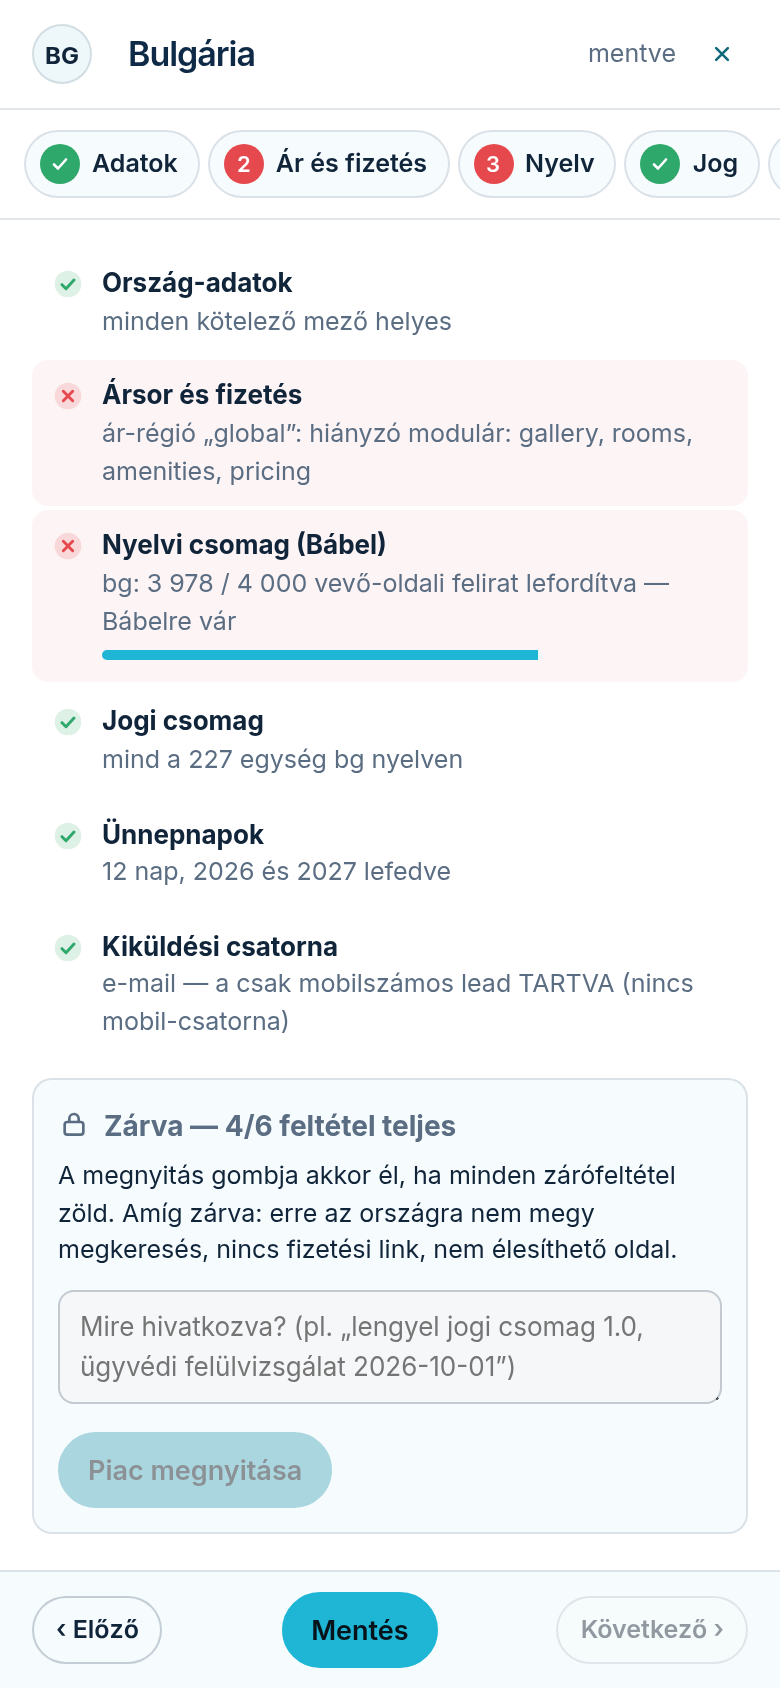
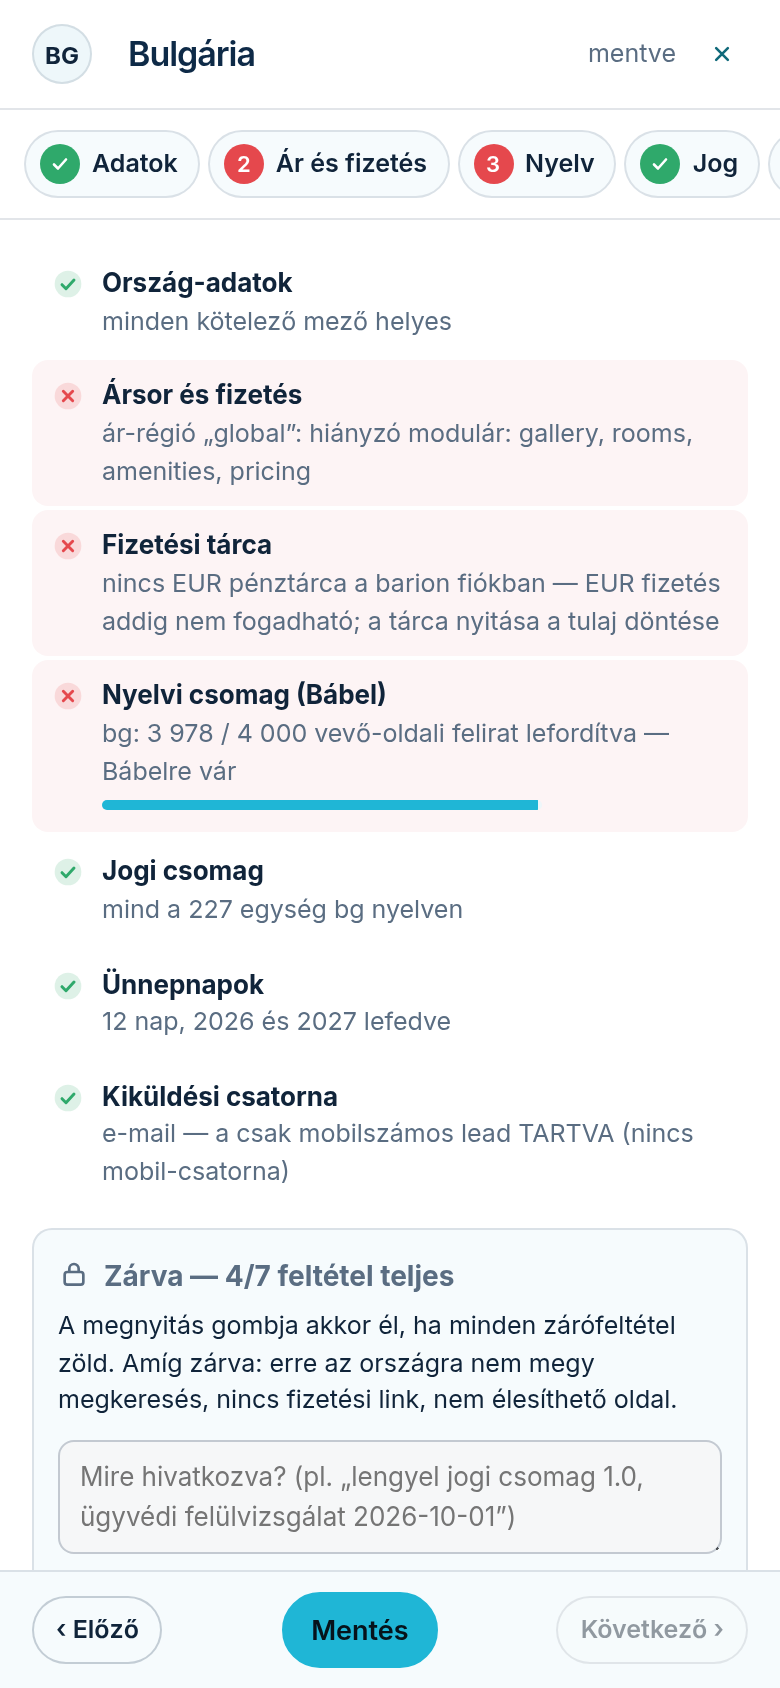
fix(kb): tudasbazis-or FLAG a deploy-tartományra (e1465241..5f00cb71) — Országok-lap piacnyitás, 6 ország adóazonosító-ellenőrzés + HR kategorizálási szám, Fizetési tárca zárófeltétel (+open-step.png), IFA pénznem-egysége, nem magyar adómodell, Jóváhagyás Ország-szűrő
Claude-Session: https://claude.ai/code/session_01H78ew8rpAbHYLTQuUCwJth

diff --git a/kb/entries/admin-legal/entry.hu.md b/kb/entries/admin-legal/entry.hu.md
@@ -4,7 +4,7 @@ title: Jogi adatok — impresszum és adatkezelési tájékoztató a honlapján
 audience: tenant
 category: account
 anchors: admin.legal
-updated: 2026-11-22
+updated: 2026-11-26
 ---
 
 A honlapjának két jogi oldala van: az **Impresszum** és az **Adatkezelési tájékoztató**.
@@ -92,14 +92,24 @@ szállás országa szerint mutatja a mezőket:
 - Az **adószám** mező az adott ország adóazonosítójának nevét viseli (például Olaszországban a
   Partita IVA, Portugáliában a NIF, Horvátországban az OIB). Spanyolországban, Portugáliában és
   Horvátországban magánszemélyként is kötelező kitölteni.
-- Horvátországban a panel az **OIB** utolsó, ellenőrző számjegyét is megnézi. Ha elgépelte, a mentés
-  után a mező alatt figyelmeztetés jelenik meg: a többi adatot elmentettük, az OIB-t nem. A mezőben
-  ott marad, amit beírt: javítsa a 11 jegyet, és koppintson újra a **„Jogi adatok mentése”** gombra.
-  Addig a honlapon a korábban mentett érték látszik.
+- Hat országban — Olaszország, Spanyolország, Portugália, Franciaország, Bulgária és Horvátország —
+  a panel az adóazonosító alakját és az ellenőrző jelét (az utolsó, a többiből kiszámolt jegyet vagy
+  betűt) is megnézi. Ha elgépelte, a mentés után a mező alatt figyelmeztetés jelenik meg:
+  - rossz hosszúságú vagy formájú számnál: *„Ez nem tűnik adóazonosítónak — a helyes alak például: …”*
+    (a példa az adott ország valódi formáját mutatja, Olaszországban például 11 számjegyet);
+  - ha a hossz jó, de a szám nem stimmel: *„Az adóazonosító ellenőrző jele nem stimmel — valószínűleg
+    elgépelés.”*;
+  - Horvátországban a saját szövegével: *„Az OIB 11 számjegyű.”*, illetve *„Az OIB ellenőrző számjegye
+    nem stimmel — valószínűleg elgépelés.”*
+
+  Ilyenkor a többi adatot elmentettük, az adóazonosítót nem. A mezőben ott marad, amit beírt: nézze
+  meg a hivatalos papírján (adóhatósági igazolás, cégkivonat), javítsa, és koppintson újra a
+  **„Jogi adatok mentése”** gombra. Addig a honlapon a korábban mentett érték látszik.
 - A **„Szálláshely-azonosító (NTAK)”** mező nem jelenik meg, mert az NTAK magyar nyilvántartás.
 - **Külön mezők** jelennek meg az ország saját nyilvántartási számaihoz. Olaszországban ilyen a
   nemzeti szálláshely-azonosító (CIN), Portugáliában a helyi szálláshely nyilvántartási száma és
-  az online panaszkönyv címe. A panaszkönyv címét előre kitöltöttük, a többit Önnek kell
+  az online panaszkönyv címe, Horvátországban a „Kategorizálási határozat száma” mező (a szállás
+  besorolásáról kapott hatósági határozat száma — ez kötelező, és a honlapon is megjelenik). A panaszkönyv címét előre kitöltöttük, a többit Önnek kell
   megadnia.
 
 Ezek ugyanúgy működnek, mint a többi mező: ha egy kötelező mező üres, a panel tetején

diff --git a/kb/entries/console-approval/entry.hu.md b/kb/entries/console-approval/entry.hu.md
@@ -4,7 +4,7 @@ title: Jóváhagyás — mehet-e ki a megkeresés, és hol
 audience: operator
 category: lead-path
 anchors: console.approval
-updated: 2026-11-25
+updated: 2026-11-26
 ---
 
 A **„Jóváhagyás”** lapon döntöd el, hogy egy megkeresés kimehet-e a leadnek. A listán csak az a lead
@@ -17,12 +17,19 @@ szám sem számolja. Megkeresés csak a te jóváhagyásod után megy ki.
 ## „Jóváhagyásra vár”
 
 Bal oldalt a lista. Felül keresőmező (név vagy település), alatta szűrés honlap szerint
-(**„Nincs honlap”** / **„Elavult honlap”**); a **„Szűrők törlése”** mindent visszaállít. Telefonon a
+(**„Nincs honlap”** / **„Elavult honlap”**); a **„Szűrők törlése”** mindent visszaállít. Ha a
+listában több ország leadje vár, a honlap-szűrő fölött egy **„Ország”** szűrősor is megjelenik
+(országonként egy gomb), a lista tetején pedig országonként látod, hány lead vár — minden
+országnak saját küldési ablaka és napi kvótája van. A leadek sorában ilyenkor az ország kódja
+is ott áll a település előtt. Telefonon a
 lista felül áll, alatta a kiválasztott lead.
 
 - **A kiválasztott lead fejlécében** a neve és a települése mellett a **„Keresés”** gomb új ablakban
   megnyitja a Google-t a szállás nevével, a településsel és az e-mail-címmel; alatta az
-  elérhetőségei jelvényként, benne az adattal. A megkeresés e-mailben megy.
+  elérhetőségei jelvényként, benne az adattal. A megkeresés e-mailben megy. Külföldi
+  leadnél akkor sem megy üzenet a mobilszámra, ha van: a lead országában nincs engedélyezett
+  mobil-csatorna (a magyar SIM-es modem külföldi számra nem küld), ezért csak e-mail megy, a mobil
+  megkeresés tartva marad. Ezzel nincs teendőd — a „Mehet” az e-mailt engedi ki.
 - **A megkeresés szövege** (alapból összecsukva, a címére kattintva nyílik le): a levél tárgya és
   bekezdései, szerkeszthetően. Ha átírsz valamit, nyomd meg a **„Mentés”** gombot, mielőtt a
   **„Mehet”**-re koppintasz — a „Mehet” a szöveget nem menti el. Üresen hagyott mező = a gépi szöveg megy; ha már elmentettél saját szöveget, a **„Vissza a gépi szövegre”** gomb visszaállítja. Ha a mentés nem sikerül, piros

diff --git a/kb/entries/admin-booking-setup/entry.hu.md b/kb/entries/admin-booking-setup/entry.hu.md
@@ -4,7 +4,7 @@ title: Foglalás beállítása — kérdésről kérdésre, a Segítővel
 audience: tenant
 category: bookings
 anchors: admin.booking.setup
-updated: 2026-10-16
+updated: 2026-11-26
 ---
 
 Ezen az egy oldalon mindent beállít, ami ahhoz kell, hogy a vendégek foglalhassanak: a szobákat,
@@ -75,12 +75,15 @@ tűnik el vele (naptár, árak, korábbi foglalások).
 
 ## Amit a vendég lát
 
-- **Kér idegenforgalmi adót?** — három válasz van. **„Igen”**: beírja az összeget (Ft / fő / éj), és a
+- **Kér idegenforgalmi adót?** — három válasz van. **„Igen”**: beírja az összeget (a szállás pénznemében,
+  például „Ft / fő / éj” vagy „€ / fő / éj”), és a
   vendég külön soron, kiszámolva látja. **„Nincs idegenforgalmi adó”**: a honlapja nem is említi.
   **„Még nem tudom”**: a vendég csak annyit lát, hogy a helyszínen adó fizetendő, összeget nem —
   számot nem találunk ki Ön helyett. Az adót a vendég a helyszínen fizeti, a végösszegbe nem számoljuk.
   A 18 év alatti vendég mentes az adó alól: a foglalásnál a vendég mindig megadja, hányan gyermekek
   („Ebből gyermek”), azokra nem számoljuk, és ezt egy mondat ki is mondja a vendégnek.
+  **Ha a szállása nem Magyarországon van**, és az országára nincs olyan idegenforgalmi-adó szabály,
+  amit a honlap kiírhat, ez a kérdés **nem jelenik meg** az oldalon — nincs vele teendője.
 - **Mi van benne az árban?** — egy rövid sor a végösszeg alatt (például: takarítás, ágynemű, reggeli).
   Nem kötelező; üresen hagyva ez a sor elmarad.
 

diff --git a/kb/entries/console-countries/entry.hu.md b/kb/entries/console-countries/entry.hu.md
@@ -4,7 +4,7 @@ title: Országok — egy ország adatai, és mikor nyitható meg
 audience: operator
 category: system
 anchors: console.countries
-updated: 2026-11-19
+updated: 2026-11-26
 ---
 
 A **„Országok”** lapon (Rendszer › Országok) kezeled az országokat: itt veszel fel egy új
@@ -58,6 +58,12 @@ A panel tetején hat lépés van: **„Adatok”** → **„Ár és fizetés”*
   fogadnia kell az ország pénznemét. Hiányos ársornál a vendég foglalási kérése is elhasalna,
   ezért ez zárófeltétel. Az árakat az **Árazás** lapon töltöd ki; a régiót és a pénznemet az
   „Adatok” lépésben választod. Nem EU-s ország ebben a körben nem nyitható (a számlázása nincs megoldva).
+- **Fizetési tárca** (ugyanebben a lépésben, külön sorban). Hiába fogadja a szolgáltató a pénznemet,
+  ha a mi fiókunkban nincs hozzá pénztárca, a vevő pénze nem tud megérkezni. Ez is zárófeltétel.
+  Ha hiányzik, a sor piros, és ezt írja: *„nincs EUR pénztárca a barion fiókban — EUR fizetés addig
+  nem fogadható; a tárca nyitása a tulaj döntése”* (az ország pénznemével és szolgáltatójával).
+  Ezt itt nem tudod megoldani: szólj a tulajnak, ő nyitja meg a tárcát a szolgáltatónál. Ha megvan,
+  a sor zöld: *„EUR pénztárca megvan (barion)”*.
 - **Nyelv.** Megkeresés, mock és vendégoldal csak az ország alapnyelvén megy. A lap a
   vevő-oldali feliratokat számolja (a konzol saját feliratai nem számítanak, azok magyarul
   maradnak). Ha egy is hiányzik, a megkeresés TARTVA („Bábelre vár”). A fordítást Bábel végzi

diff --git a/kb/entries/console-settings/entry.hu.md b/kb/entries/console-settings/entry.hu.md
@@ -4,7 +4,7 @@ title: Beállítások — operátor-fiók, riasztások és jelszócsere
 audience: operator
 category: system
 anchors: console.settings
-updated: 2026-10-13
+updated: 2026-11-26
 ---
 
 A **„Beállítások”** képernyőn látod a saját operátor-fiókod adatait, itt állítod be az
@@ -138,9 +138,10 @@ fizetés-sor, és a felület nem ad ki két linket ugyanarra. Ha a sor ott ragad
 rendezéshez **fejlesztői beavatkozás kell** — jelezd.
 
 **`unknown` — rendszerint lezárt piac.** A vevő országára nincs jóváhagyott jogi csomag, a
-gomb pedig látszik és hatástalan. A teendő nem a lead lapján van: a **Beállítások** lap
-**„Piacok”** panelján kell megnyitni az adott országot (lásd a Piacok súgót) — utána a
-gomb már valódi linket ad. Ha az országot üzletileg nem akarod megnyitni, a rendelés nem
+gomb pedig látszik és hatástalan. A teendő nem a lead lapján van: az **„Országok”** lapon
+(Rendszer › Országok) kell megnyitni az adott országot — koppints az ország sorára, majd a
+**„Megnyitás”** lépésben a **„Piac megnyitása”** gombra (részletesen az Országok súgójában, „A piac
+megnyitása” résznél). Utána a gomb már valódi linket ad. Ha az országot üzletileg nem akarod megnyitni, a rendelés nem
 teljesíthető: keresd meg a vevőt és mondd meg neki.
 
 **Ha a gomb nem látszik és a rendelés már ki van fizetve** — ilyenkor nincs is dolgod.

diff --git a/kb/entries/admin-modules-booking/entry.hu.md b/kb/entries/admin-modules-booking/entry.hu.md
@@ -4,7 +4,7 @@ title: Foglalás-beállítások — naptár, szobák, értesítési címek
 audience: tenant
 category: bookings
 anchors: admin.modules.booking
-updated: 2026-11-04
+updated: 2026-11-26
 ---
 
 A foglalás-modul beállító-képernyőjét a Modulok fülön, a modul melletti **„Beállítás”** linkkel éri
@@ -50,7 +50,8 @@ vesszővel elválasztva (pl. recepció és tulajdonos). A vendég válasza is az
 ## Mit fizet a vendég a helyszínen? (idegenforgalmi adó)
 
 Az **„Idegenforgalmi adó”** mezőbe (a képernyő alján a **„Haladó beállítások”** sorra koppintva nyílik ki; ugyanezt kérdezi a **„Foglalás beállítása”** oldal is) azt az összeget írja be, amit a vendég a **helyszínen**
-fizet a szállásdíjon felül — **Ft / fő / éj** bontásban. A honlapján ez az összeg nem olvad
+fizet a szállásdíjon felül — fő / éj bontásban, a szállása pénznemében: a mező mellett forintos
+szállásnál „Ft / fő / éj”, eurós szállásnál „€ / fő / éj” áll. A honlapján ez az összeg nem olvad
 bele az árba: külön dobozban áll, „A helyszínen fizetendő ezen felül” felirattal, kiszámolva
 (pl. *500 Ft / fő / éj × 2 fő × 3 éj = 3 000 Ft*). A 18 év alatti vendég mentes: akiket a vendég
 a foglalásnál gyermekként ad meg, azokra nem számoljuk, és a doboz ezt egy mondatban ki is mondja.
